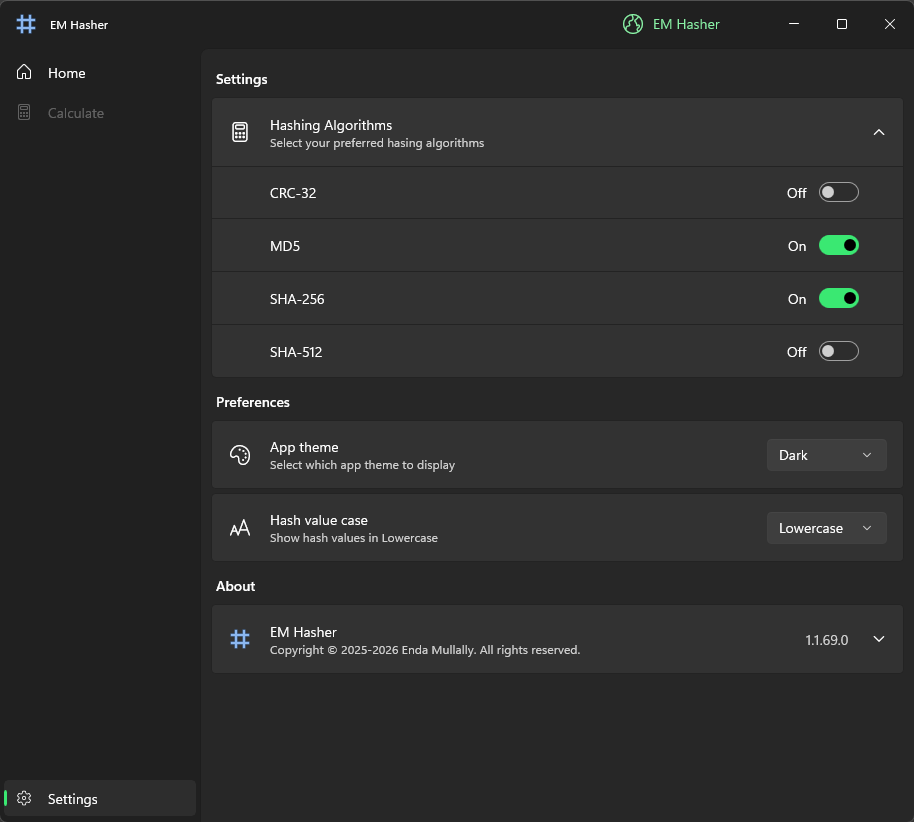
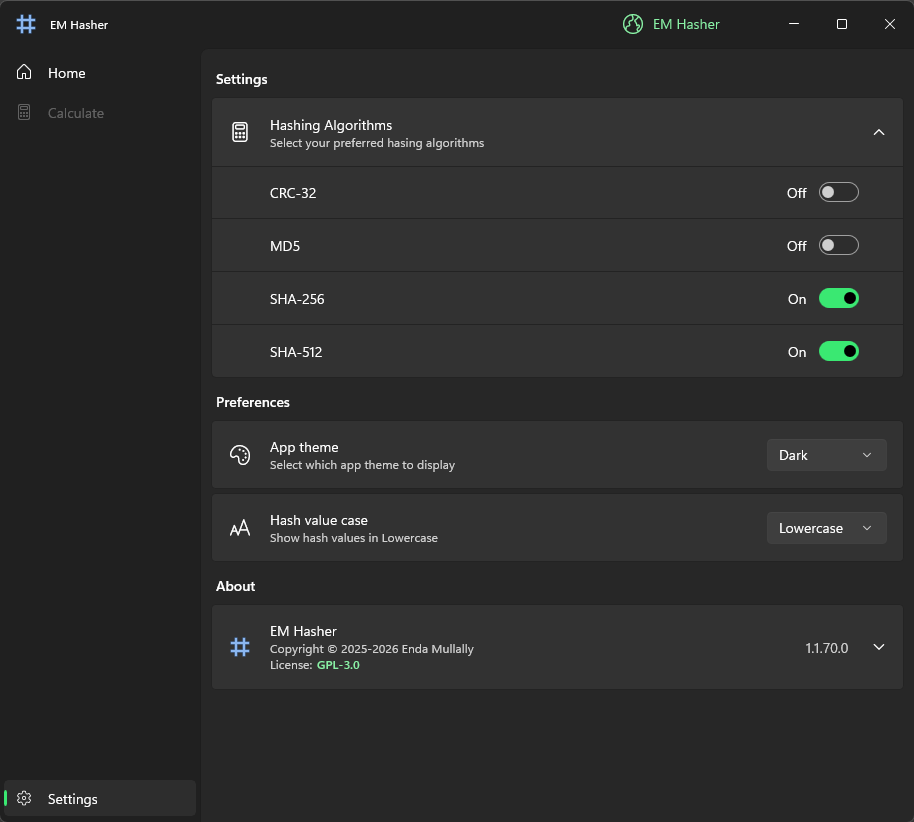
About -> Improved copyright notice [UI] + mini release. (#33)
* Improve license readability

* [About] Improved copyright notice + version inc + updated store images for mini release.

* Update README.md

diff --git a/src/EM.Hasher/Views/Settings.xaml b/src/EM.Hasher/Views/Settings.xaml
@@ -163,23 +163,28 @@
                 <!--  String resource key 'SettingsAboutAppDisplayName.Header' will map to Header below, very subtle  -->
                 <controls:SettingsExpander
                     x:Uid="SettingsAboutAppDisplayName"
-                    Description="{x:Bind sys:String.Format('Copyright © 2025-2026 Enda Mullally. All rights reserved.{0}', ViewModel.TrialLicenseDescription), Mode=OneWay}"
                     HeaderIcon="{ui:BitmapIcon Source=ms-appx:///Assets/EMHasher40x40.png}"
                     IsExpanded="False">
+                    <controls:SettingsExpander.Description>
+                        <StackPanel Orientation="Vertical">
+                            <TextBlock Text="Copyright © 2025-2026 Enda Mullally" />
+                            <StackPanel Orientation="Horizontal">
+                                <TextBlock Text="License:" />
+                                <HyperlinkButton
+                                    Margin="3,-1,0,0"
+                                    Padding="0"
+                                    Content="GPL-3.0"
+                                    NavigateUri="https://github.com/enda-mullally/EMHasher/blob/main/LICENSE" />
+                            </StackPanel>
+                        </StackPanel>
+                    </controls:SettingsExpander.Description>
+
                     <TextBlock
                         Margin="0,0,10,0"
                         Foreground="{ThemeResource TextFillColorSecondaryBrush}"
                         Text="{x:Bind ViewModel.VersionDescription, Mode=OneWay}" />
 
                     <controls:SettingsExpander.Items>
-
-                        <controls:SettingsCard MinHeight="36" Header="https://github.com/enda-mullally/EMHasher">
-                            <HyperlinkButton
-                                Margin="0,0,7,0"
-                                Padding="0"
-                                Content="GPL-3.0"
-                                NavigateUri="https://github.com/enda-mullally/EMHasher/blob/main/LICENSE" />
-                        </controls:SettingsCard>
 
                         <controls:SettingsCard MinHeight="30">
                             <controls:SettingsCard.Header>

diff --git a/README.md b/README.md
@@ -26,18 +26,18 @@ EM Hasher is a modern, simple & free hash-generating application built from the 
 
 ## Coming soon!
 
-Hash verification and support for launching EM Hasher directly in Verify mode via '.md5', '.sha256' files etc; Quickly verify the hashes of single or multiple files with a single click.
+Hash verification via auto detection of file hashes containted in any local .md5, .sha256 file(s) etc. If the selected file is matched to any hash validation file, a simple validation result will be shown in the UI (Icon).
 
 <br />
 
 #### Screenshots
 
 <p align="center">
-  <img width="auto" align="center" style="border-radius: 8px; width: auto; height: auto;" src="docs/images/Store_02_Main_Screen_Drop.png">
+  <img width="auto" align="center" style="border-radius: 8px; width: auto; height: auto;" src="docs/images/Store_01_Main_Screen_Drop.png">
 </p>
 
 <p align="center">
-  <img width="auto" align="center" style="border-radius: 8px; width: auto; height: auto;" src="docs/images/Store_01_Main_Screen.png">
+  <img width="auto" align="center" style="border-radius: 8px; width: auto; height: auto;" src="docs/images/Store_02_Main_Screen.png">
 </p>
 
 <p align="center">
@@ -114,5 +114,10 @@ v1.1.68 - UI - Improved look of Settings page UI - Fixed rendering issue when ap
 
 ### 18/Mar/2026 ###
 v1.1.69 - Misc bug fix's - Added Digital Signature info panel for signed files.
+
+### 25/Mar/2026 ###
+v1.1.70 - (Pending) Settings -> About. Improved copyright notice.
+
+
 
 
